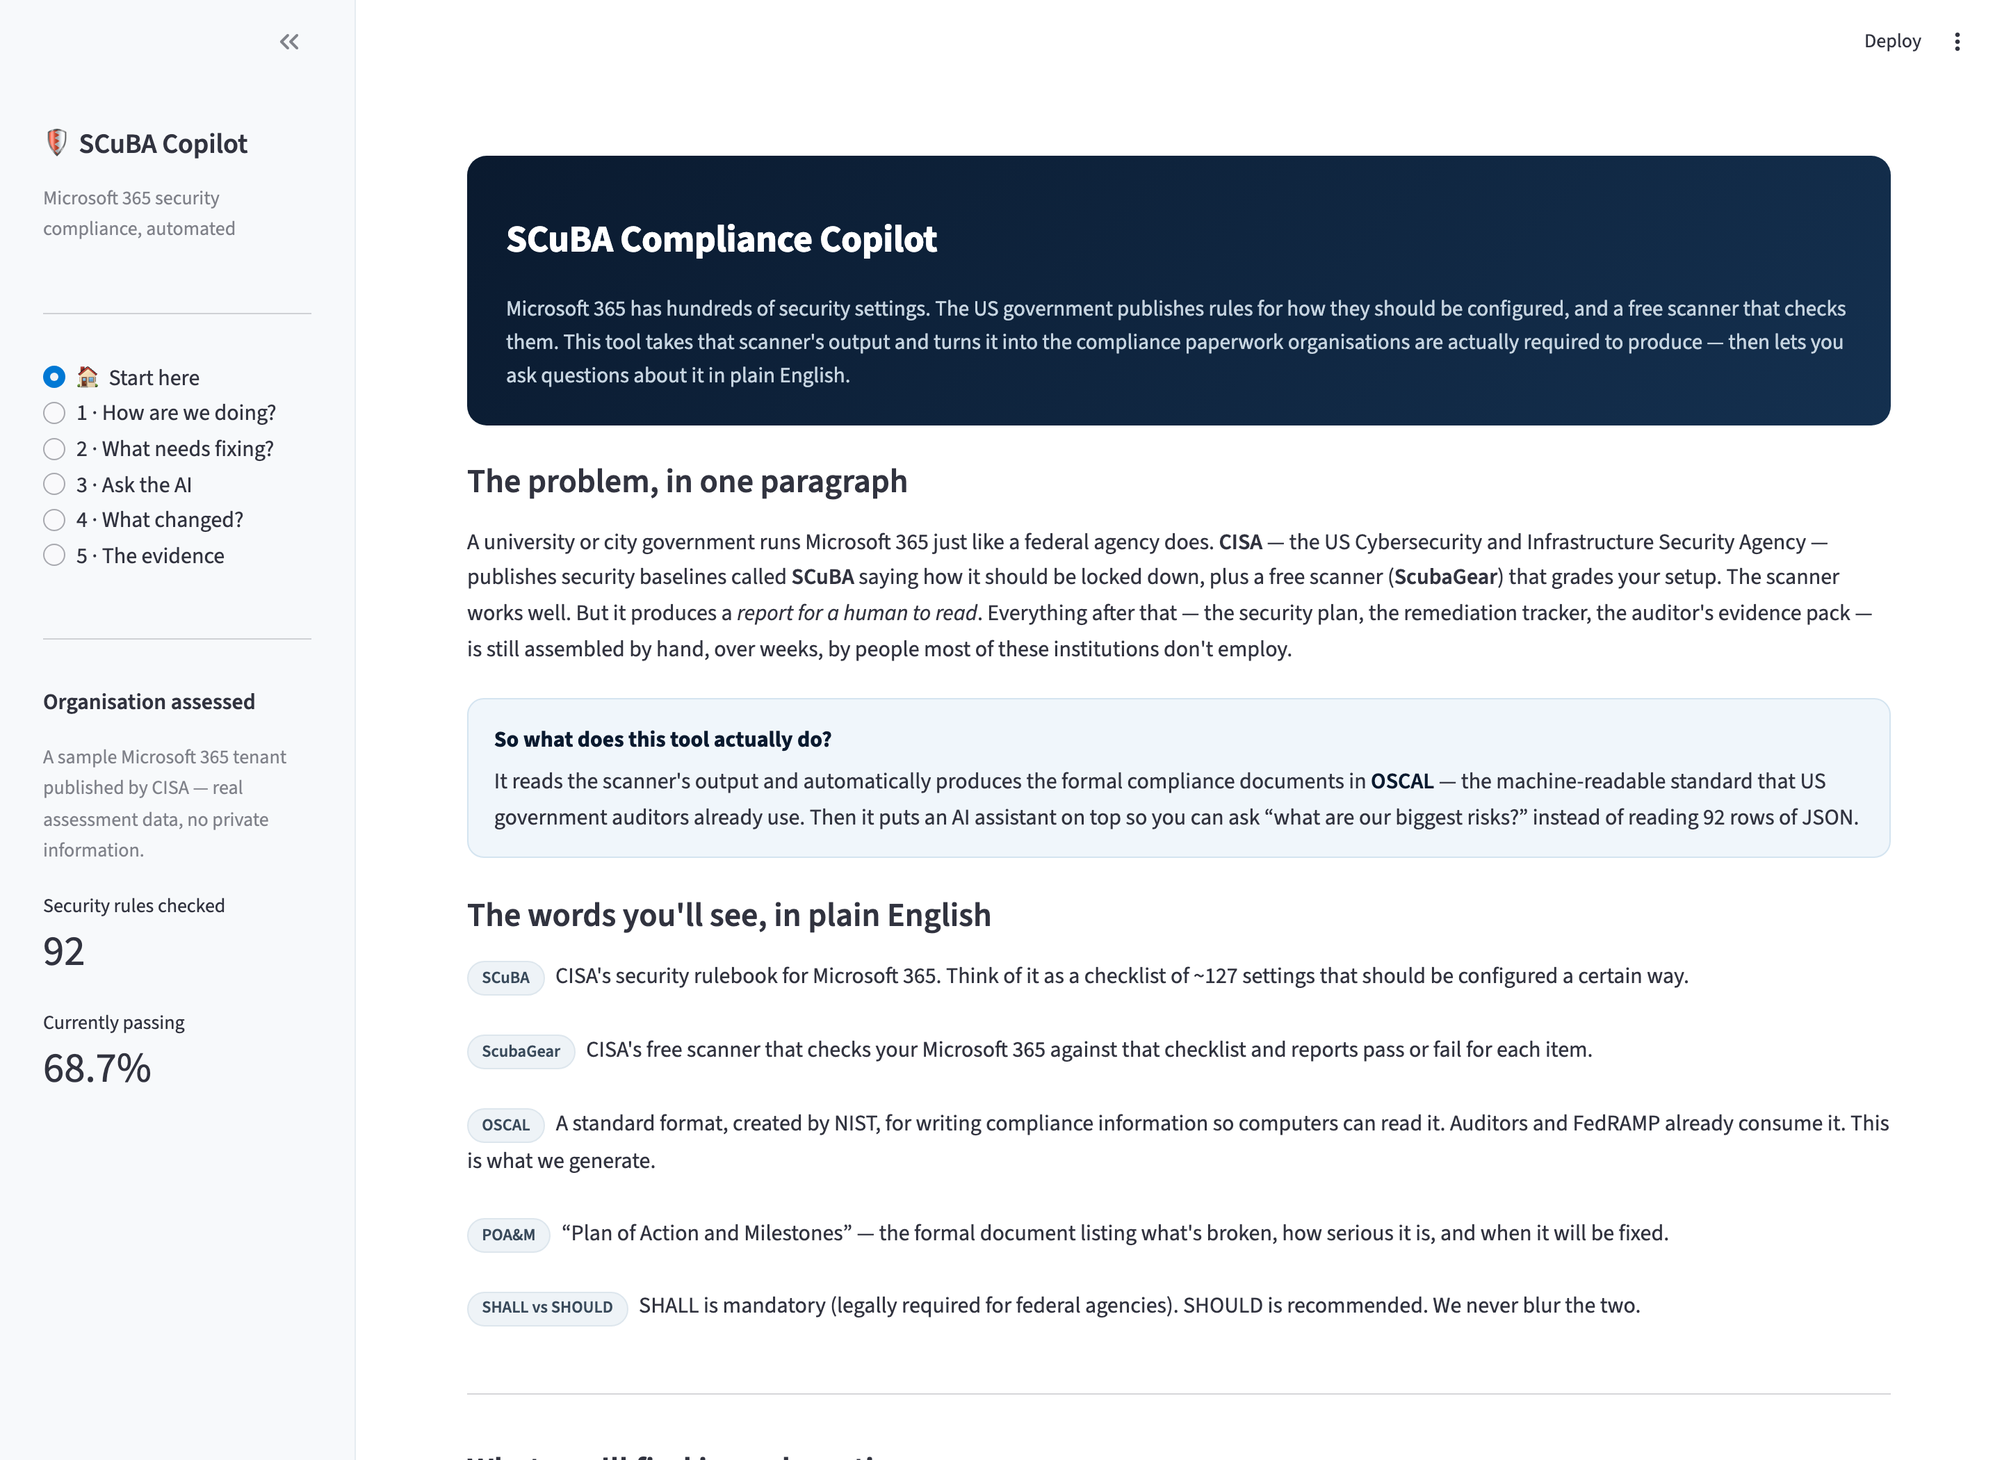
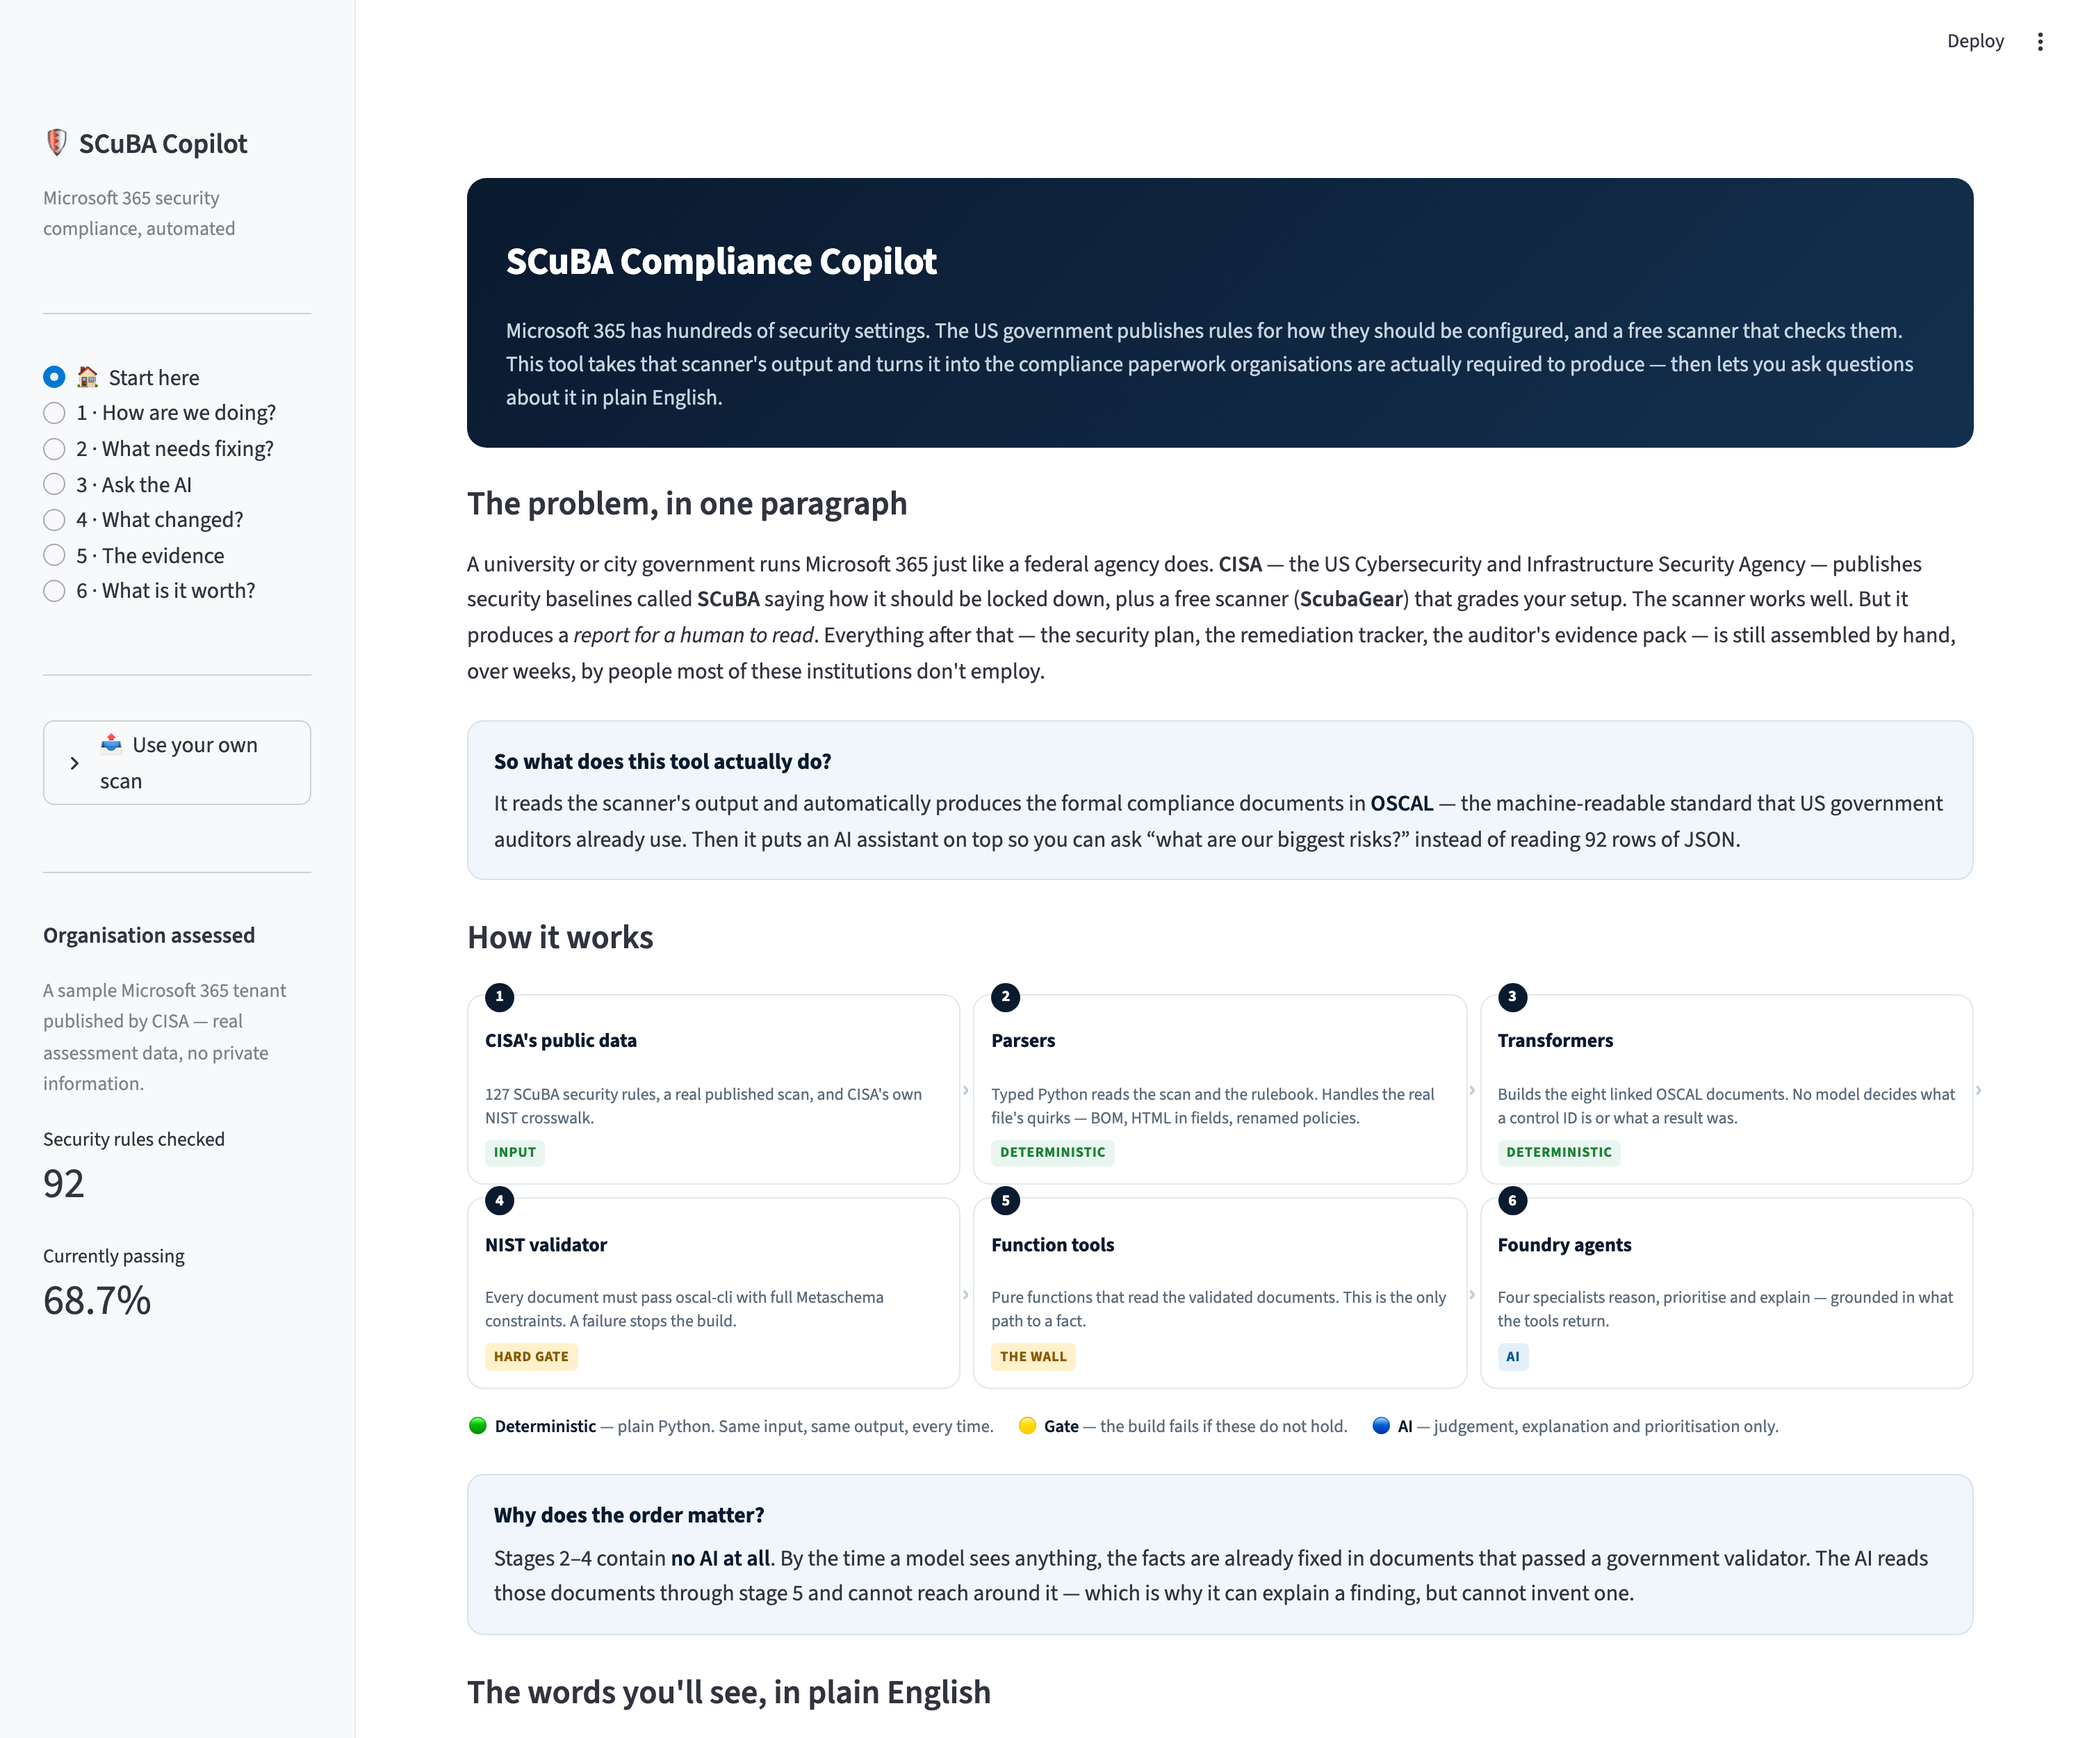
feat: show the pipeline visually on the landing page
The architecture was described in prose and shown only in the README's
Mermaid diagram, so a visitor to the app had to take "deterministic core,
AI on top" on trust. Now the six stages are on the page, colour-coded by
what they are: deterministic, hard gate, or AI.

    CISA's data -> parsers -> transformers -> NIST validator
                -> function tools -> Foundry agents

Labelling stage 5 "the wall" and stating that stages 2-4 contain no AI at
all makes the project's central claim visible in one glance, which prose
never quite achieves.

Built as a CSS grid rather than a flex row: flex left the final wrapped
stage stretched across the full width, so it read as a different kind of
element rather than the sixth step. The grid wraps evenly at 6, 3 and 2
columns. Flow arrows are drawn as pseudo-elements on the cards so they
survive wrapping instead of being orphaned between rows.

Also fixed the arrow itself - a CSS hex escape was being mis-parsed and
rendering as a literal "A". Verified the computed ::after content in a
real browser rather than assuming.

diff --git a/src/scuba_oscal/app/theme.py b/src/scuba_oscal/app/theme.py
@@ -111,3 +111,79 @@ def cards(items: list[tuple[str, str, str, str]]) -> str:
 
 def step(number: int, text: str) -> str:
     return f'<div class="step"><div class="n">{number}</div><div class="t">{text}</div></div>'
+
+
+PIPELINE_CSS = """
+<style>
+  /* Grid rather than flex: a flex row leaves the final wrapped stage stretched
+     across the full width, which reads as a different kind of element. A grid
+     wraps evenly at every breakpoint. */
+  .pipe {
+    display:grid; gap:.55rem; margin:.6rem 0 1rem 0;
+    grid-template-columns: repeat(6, minmax(0, 1fr));
+  }
+  @media (max-width: 1500px) { .pipe { grid-template-columns: repeat(3, minmax(0,1fr)); } }
+  @media (max-width: 820px)  { .pipe { grid-template-columns: repeat(2, minmax(0,1fr)); } }
+
+  .pipe-stage {
+    background:#fff; border:1px solid #E2E8EE; border-radius:12px;
+    padding:.8rem .75rem .7rem .75rem; position:relative;
+  }
+  .pipe-stage .num {
+    position:absolute; top:-9px; left:.75rem; background:#0A1A2F; color:#fff;
+    width:21px; height:21px; border-radius:50%; font-size:.7rem; font-weight:700;
+    display:flex; align-items:center; justify-content:center;
+  }
+  /* Flow arrow between cards, drawn on the card so it survives wrapping. */
+  .pipe-stage:not(:last-child)::after {
+    content:"›"; position:absolute; right:-.42rem; top:50%;
+    transform:translateY(-50%); color:#C3CED8; font-size:1.05rem; font-weight:700;
+  }
+  .pipe-stage h4 { margin:.3rem 0 .28rem 0; font-size:.88rem; color:#0A1A2F; font-weight:700; }
+  .pipe-stage p  { margin:0; font-size:.75rem; color:#5A6B7B; line-height:1.42; }
+  .pipe-stage .tag {
+    display:inline-block; margin-top:.45rem; font-size:.64rem; font-weight:700;
+    letter-spacing:.04em; text-transform:uppercase; padding:.1rem .4rem; border-radius:4px;
+  }
+  .tag-det  { background:#E8F6EF; color:#1A7F37; }
+  .tag-gate { background:#FFF1CC; color:#8A5A00; }
+  .tag-ai   { background:#E3F0FA; color:#0B5A8A; }
+  .pipe-legend { display:flex; gap:1.1rem; flex-wrap:wrap; font-size:.79rem;
+                 color:#5A6B7B; margin:.1rem 0 1.1rem .1rem; }
+  .pipe-legend b { color:#0A1A2F; }
+</style>
+"""
+
+#: (number, title, body, tag-label, tag-class)
+PIPELINE_STAGES = [
+    ("1", "CISA's public data",
+     "127 SCuBA security rules, a real published scan, and CISA's own NIST crosswalk.",
+     "input", "tag-det"),
+    ("2", "Parsers",
+     "Typed Python reads the scan and the rulebook. Handles the real file's quirks — BOM, HTML in fields, renamed policies.",
+     "deterministic", "tag-det"),
+    ("3", "Transformers",
+     "Builds the eight linked OSCAL documents. No model decides what a control ID is or what a result was.",
+     "deterministic", "tag-det"),
+    ("4", "NIST validator",
+     "Every document must pass oscal-cli with full Metaschema constraints. A failure stops the build.",
+     "hard gate", "tag-gate"),
+    ("5", "Function tools",
+     "Pure functions that read the validated documents. This is the only path to a fact.",
+     "the wall", "tag-gate"),
+    ("6", "Foundry agents",
+     "Four specialists reason, prioritise and explain — grounded in what the tools return.",
+     "AI", "tag-ai"),
+]
+
+
+def pipeline_html() -> str:
+    parts = ['<div class="pipe">']
+    for num, title, body, tag, cls in PIPELINE_STAGES:
+        parts.append(
+            f'<div class="pipe-stage"><div class="num">{num}</div>'
+            f"<h4>{title}</h4><p>{body}</p>"
+            f'<span class="tag {cls}">{tag}</span></div>'
+        )
+    parts.append("</div>")
+    return "".join(parts)

diff --git a/src/scuba_oscal/app/main.py b/src/scuba_oscal/app/main.py
@@ -23,7 +23,15 @@ ROOT = Path(__file__).resolve().parents[3]
 sys.path.insert(0, str(ROOT / "src"))
 
 from scuba_oscal.agents.tools import ComplianceTools  # noqa: E402
-from scuba_oscal.app.theme import CSS, cards, explain, page_head, step  # noqa: E402
+from scuba_oscal.app.theme import (  # noqa: E402
+    CSS,
+    PIPELINE_CSS,
+    cards,
+    explain,
+    page_head,
+    pipeline_html,
+    step,
+)
 from scuba_oscal.drift import compare, false_signal_count  # noqa: E402
 from scuba_oscal.impact import (  # noqa: E402
     SOURCES,
@@ -46,6 +54,7 @@ RESULT_COLOURS = {"Pass": "#1A7F37", "Fail": "#CF222E", "Warning": "#BF8700", "N
 
 st.set_page_config(page_title="SCuBA Compliance Copilot", page_icon="🛡", layout="wide")
 st.markdown(CSS, unsafe_allow_html=True)
+st.markdown(PIPELINE_CSS, unsafe_allow_html=True)
 
 
 # --------------------------------------------------------------------- loaders
@@ -212,6 +221,27 @@ if view == "start":
             "documents in <b>OSCAL</b> — the machine-readable standard that US government "
             "auditors already use. Then it puts an AI assistant on top so you can ask "
             "“what are our biggest risks?” instead of reading 92 rows of JSON.",
+        ),
+        unsafe_allow_html=True,
+    )
+
+    st.markdown("#### How it works")
+    st.markdown(pipeline_html(), unsafe_allow_html=True)
+    st.markdown(
+        '<div class="pipe-legend">'
+        "<span>🟢 <b>Deterministic</b> — plain Python. Same input, same output, every time.</span>"
+        "<span>🟡 <b>Gate</b> — the build fails if these do not hold.</span>"
+        "<span>🔵 <b>AI</b> — judgement, explanation and prioritisation only.</span>"
+        "</div>",
+        unsafe_allow_html=True,
+    )
+    st.markdown(
+        explain(
+            "Why does the order matter?",
+            "Stages 2–4 contain <b>no AI at all</b>. By the time a model sees anything, the "
+            "facts are already fixed in documents that passed a government validator. The AI "
+            "reads those documents through stage 5 and cannot reach around it — which is why "
+            "it can explain a finding, but cannot invent one.",
         ),
         unsafe_allow_html=True,
     )
